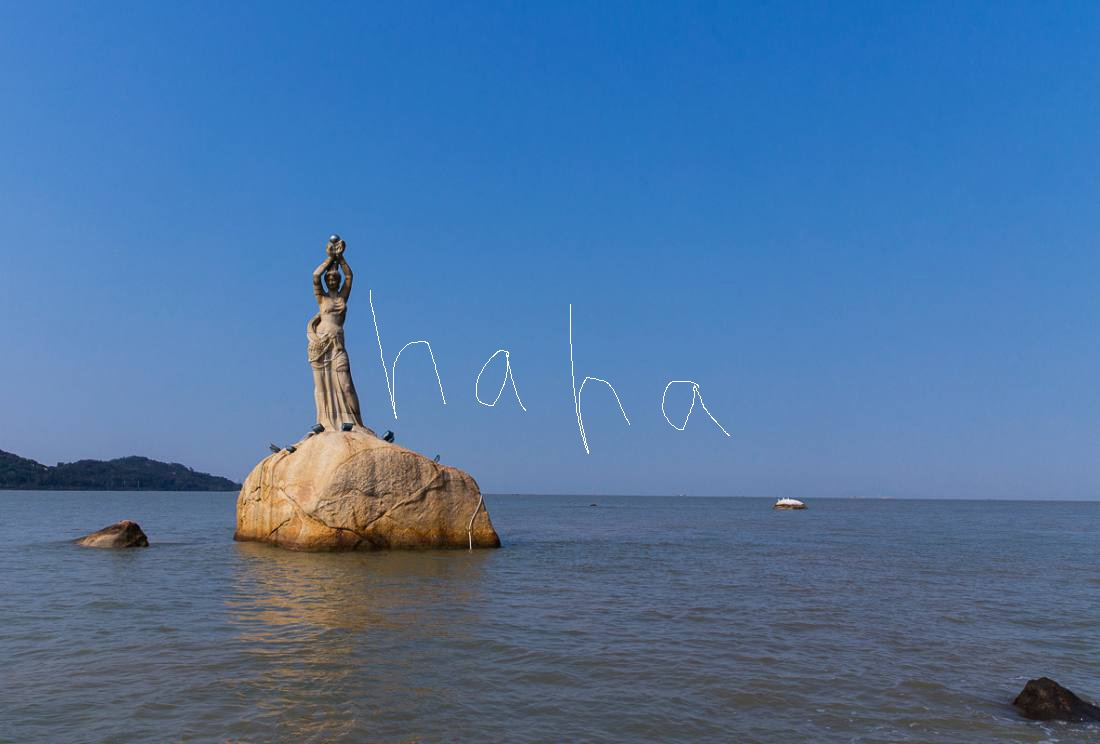
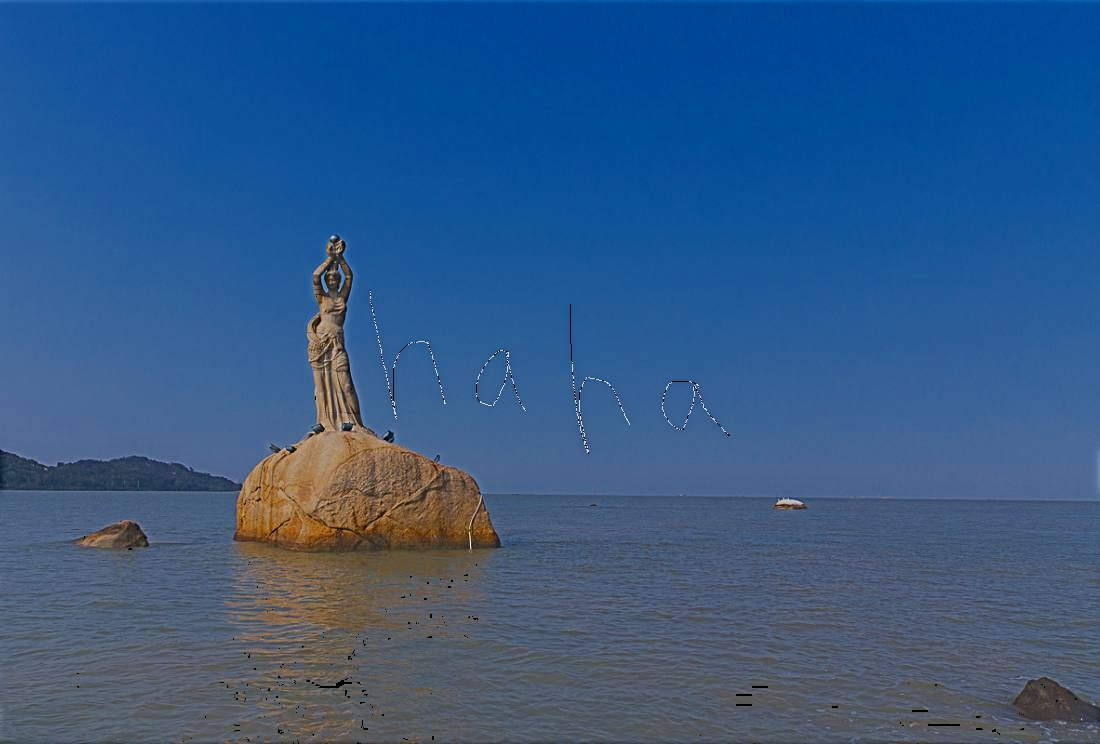
图像锐化 / 频域算法

diff --git a/source/marathon/src/lib/kfilter.py b/source/marathon/src/lib/kfilter.py
@@ -66,11 +66,19 @@ def gaussianHighFrequencyFilter(im, sigma = 1., maxvalue = 1.):
     fft = np.fft.fft2(imarr)
     fft = np.fft.fftshift(fft)
 
+    maska = np.zeros((height, width), dtype = "float")
+
     for i in range(height):
         for j in range(width):
             value = (i - (height-1)/2)**2 + (j - (width-1)/2)**2
             value = -value/2/sigma**2
-            fft[i, j] *= 1 - np.exp(value)
+            value = 1 - np.exp(value)
+            value = value * 0.5 + 0.5
+            fft[i, j] *= value
+            maska[i, j] = value
+
+    showFunction(maska)
+    showTemplate(maska)
 
     fft = np.fft.ifftshift(fft)
     ifft = np.fft.ifft2(fft)
@@ -79,7 +87,7 @@ def gaussianHighFrequencyFilter(im, sigma = 1., maxvalue = 1.):
     max = np.max(ifft)
     min = np.min(ifft)
 
-    res = np.zeros((height, width), dtype = "uint8")
+    res = np.zeros((height, width), dtype = "float")
 
     for i in range(height):
         for j in range(width):
@@ -87,16 +95,16 @@ def gaussianHighFrequencyFilter(im, sigma = 1., maxvalue = 1.):
 
     return res
 
-def gaussianHighFrequencyFilterImage(img, sigma = 20):
+def gaussianHighFrequencyFilterImage(img, sigma = 50):
     from .kcolor import bgr2hsv, hsv2bgr
     imgsrc = img.copy()
     image = bgr2hsv(img)
 
-    #print(np.max(image[..., 2]))
+    print(np.min(image[..., 2]), np.max(image[..., 2]))
     image[..., 2] = gaussianHighFrequencyFilter(image[..., 2], sigma, maxvalue=1.)
 
     newimg = hsv2bgr(image, imgsrc)
-    return imgsrc
+    return newimg
 
 def sharpenImage(r):
     # 滤波掩模，空间滤波-锐化滤波

diff --git a/source/marathon/src/phase2_sharpen_frequency.py b/source/marathon/src/phase2_sharpen_frequency.py
@@ -16,6 +16,7 @@ def main():
     # https://blog.csdn.net/qq_30815237/article/details/98655630
     #newimg = kalgorithm.histEqualization(newimg) # 高频滤波后一般都要直方图均衡一下
     kalgorithm.imgSave(outputfile, newimg)
+    kalgorithm.imgShow(newimg)
 
 if __name__ == "__main__":
     main()

diff --git a/_posts/2020-10-24-dip-image-marathon.md b/_posts/2020-10-24-dip-image-marathon.md
@@ -10,7 +10,9 @@ toc: true
 
 **编程马拉松 HACKATHON 2020 · TEAM24**
 
-完整的代码下载：<a href="{% include relref.html url="/source/hackathon2020_team24.zip" %}" target="_blank">hackathon2020_team24.zip</a> \- 14\.5 MB
+完整的代码下载：<https://github.com/hawkhai/hawkhai.github.io/tree/master/source/marathon>
+
+[^_^]: <a href="{% include relref.html url="/source/hackathon2020_team24.zip" %}" target="_blank">hackathon2020_team24.zip</a> \- 14\.5 MB
 
 为了不那么占内存，以更好的演示效果，代码重新整理了一遍。
 
